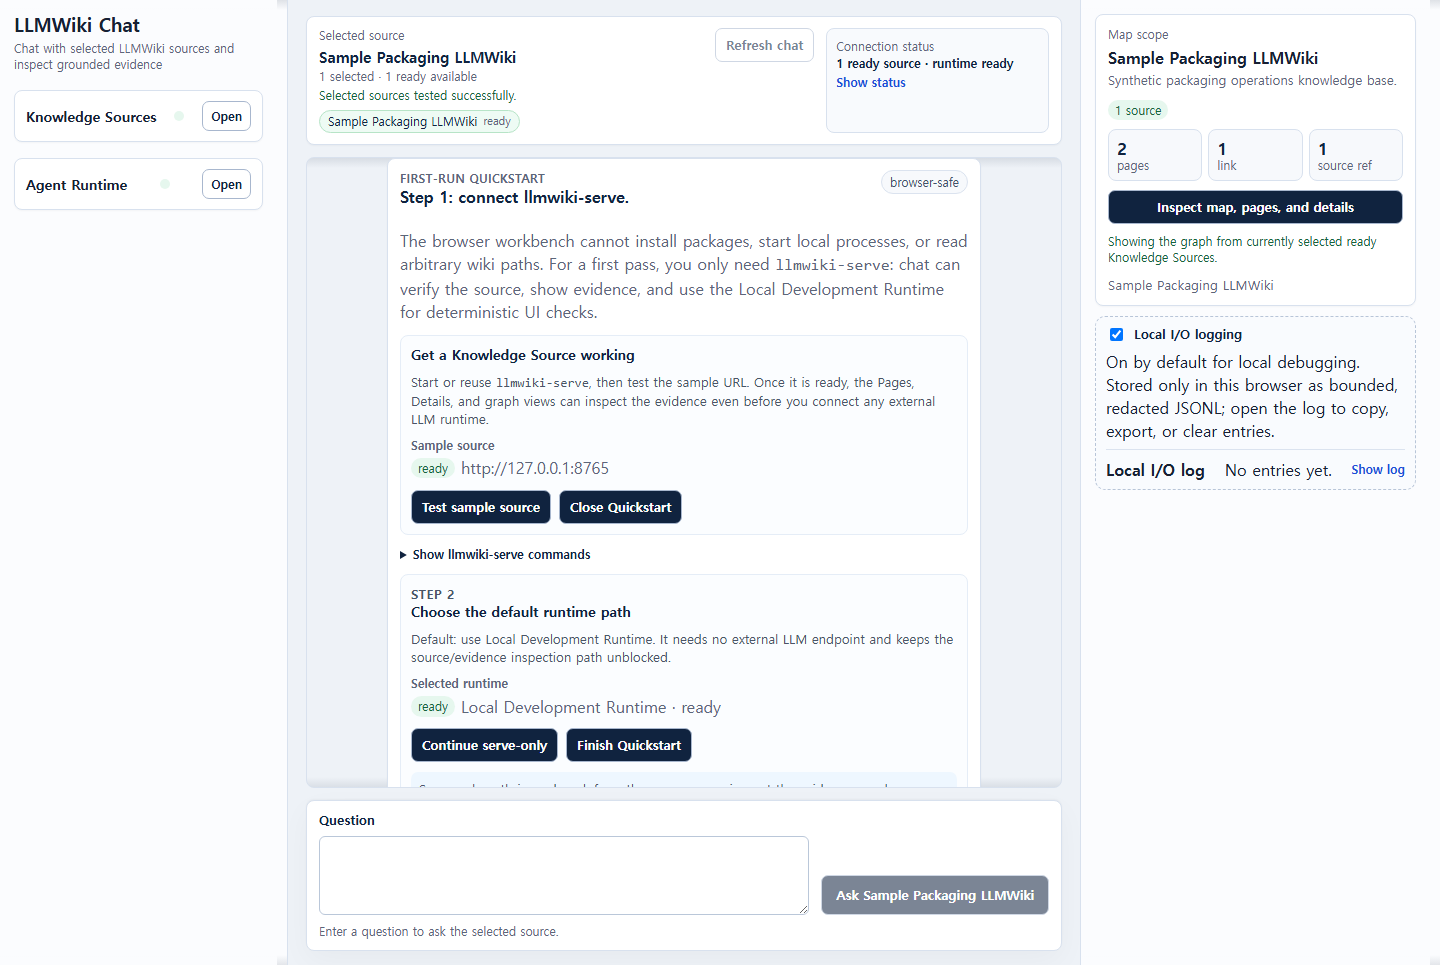
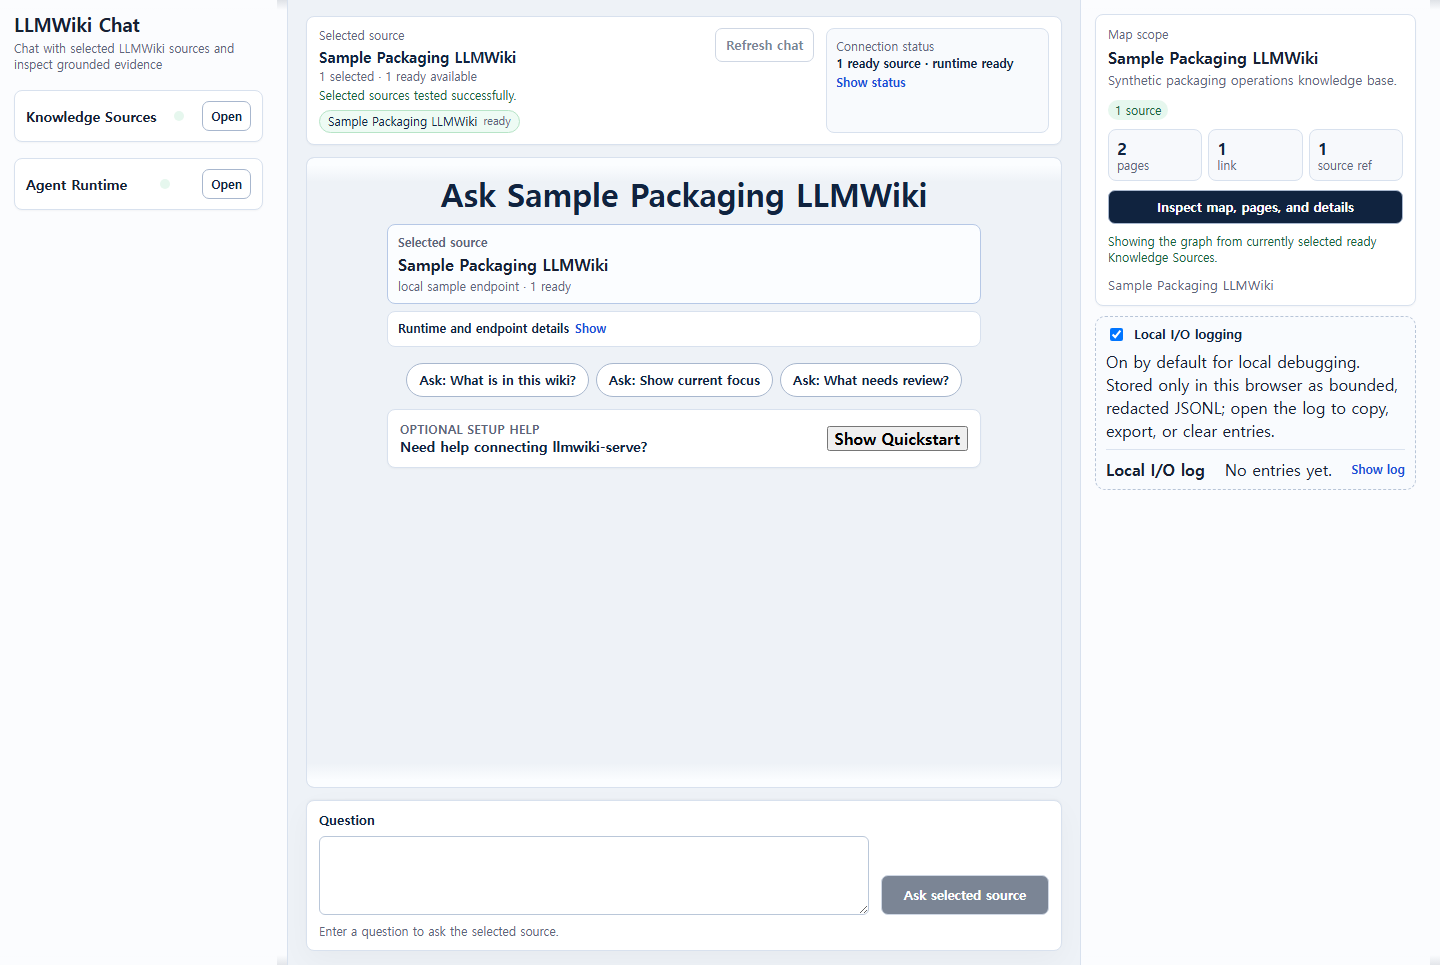
Release llmwiki-chat 0.1.2

diff --git a/README.md b/README.md
@@ -145,19 +145,20 @@ the surrounding network is protected.
 
 ## Release Status
 
-`llmwiki-chat` is in public preview and published as `llmwiki-chat@0.1.1`.
+`llmwiki-chat` is in public preview and published as `llmwiki-chat@0.1.2`.
 Source checkout remains supported for local development and release checks.
 See the [release checklist](docs/release.md) and hosted release status for the
 current posture.
 
 ## Demo
 
-![LLMWiki Chat source-first Quickstart flow](docs/assets/llmwiki-chat-workbench.png)
+![LLMWiki Chat source-first default workbench](docs/assets/llmwiki-chat-workbench.png)
 
-The screenshot shows the current opt-in, source-first Quickstart flow with the
-inspector still collapsed behind `Inspect map, pages, and details`. It uses
-sanitized loopback sample values and does not show a connected production
-runtime, private Knowledge Source, raw logs, or managed backend automation.
+The screenshot shows the default source-first workbench before the opt-in
+Quickstart is opened. The inspector remains collapsed behind `Inspect map,
+pages, and details`. It uses sanitized loopback sample values and does not show
+a connected production runtime, private Knowledge Source, raw logs, or managed
+backend automation.
 
 ## Workbench Modes
 

diff --git a/CHANGELOG.md b/CHANGELOG.md
@@ -9,6 +9,15 @@ begin. Dates use `YYYY-MM-DD`.
 
 - _No changes yet._
 
+## 0.1.2 - 2026-07-22
+
+- Refreshed the README demo image so the main package page shows the default
+  source-first workbench before Quickstart is opened.
+- Preserved the post-click Quickstart-open screenshot as a separate docs asset
+  for future Quickstart-specific documentation.
+- Updated Quickstart spec/rubric notes so main demo and Quickstart-open images
+  have distinct roles.
+
 ## 0.1.1 - 2026-07-21
 
 - Refined the first-run experience so Quickstart stays opt-in, source readiness

diff --git a/THIRD_PARTY_LICENSES.md b/THIRD_PARTY_LICENSES.md
@@ -2,7 +2,7 @@
 
 <!-- Generated by scripts/generate-third-party-licenses.mjs. Do not edit by hand. -->
 
-Package: llmwiki-chat@0.1.1
+Package: llmwiki-chat@0.1.2
 Mode: production
 Generated from: package-lock.json
 

diff --git a/specs/quickstart-local-setup/rubric.md b/specs/quickstart-local-setup/rubric.md
@@ -113,7 +113,7 @@ evidence.
 | L3-R6 | 10 | 9 | Quickstart/sidebar/runtime card tests keep `llmwiki-agent-bridge`, Hermes, DeepAgents, Copilot/custom runtimes behind optional add/advanced disclosure and never block serve-only. | Real managed install/readiness UX for Hermes/DeepAgents remains a future quickstart feature, not part of this UI-only loop. |
 | L3-R7 | 8 | 8 | Tests cover source retry guidance, bridge 404 recovery, quiet unavailable-evidence notice, and Local I/O opt-out/clear states. | None. |
 | L3-R8 | 8 | 8 | Focus/role tests plus Playwright axe scans cover default app shell, inspector-open, add-runtime-open, Local I/O-open, opened Quickstart, mobile source commands, and advanced Quickstart; 500px overflow checks cover Quickstart commands and expanded app-shell state. | Manual screen-reader pass remains a separate follow-up and is not claimed. |
-| L3-R9 | 6 | 6 | README copy and `docs/assets/llmwiki-chat-workbench.png` were refreshed to show source-first Quickstart with inspector collapsed and no private paths, tokens, raw logs, or private endpoints. | None. |
+| L3-R9 | 6 | 6 | README copy and `docs/assets/llmwiki-chat-workbench.png` were refreshed to show the source-first default workbench before Quickstart opens; `docs/assets/llmwiki-chat-quickstart.png` preserves the Quickstart-open reference image. Both avoid private paths, tokens, raw logs, and private endpoints. | None. |
 | L3-R10 | 8 | 8 | Browser/process boundary and Local I/O contracts remain unchanged; token redaction/localStorage tests pass; full no-credential `npm run check` passes, including pack dry-run and audit. | None. |
 | Total | 100 | 99 | Meets the Loop 3 production-default score threshold with full release-gate validation. | Manual fresh-user/screen-reader observation remains useful follow-up evidence, but is not required for this automated gate. |
 

diff --git a/specs/quickstart-local-setup/plan.md b/specs/quickstart-local-setup/plan.md
@@ -89,6 +89,7 @@ Loop 3 implementation surfaces:
 - `e2e/chat.spec.ts`
 - `README.md`
 - `docs/assets/llmwiki-chat-workbench.png`
+- `docs/assets/llmwiki-chat-quickstart.png`
 - `specs/quickstart-local-setup/spec.md`
 - `specs/quickstart-local-setup/plan.md`
 - `specs/quickstart-local-setup/tasks.md`